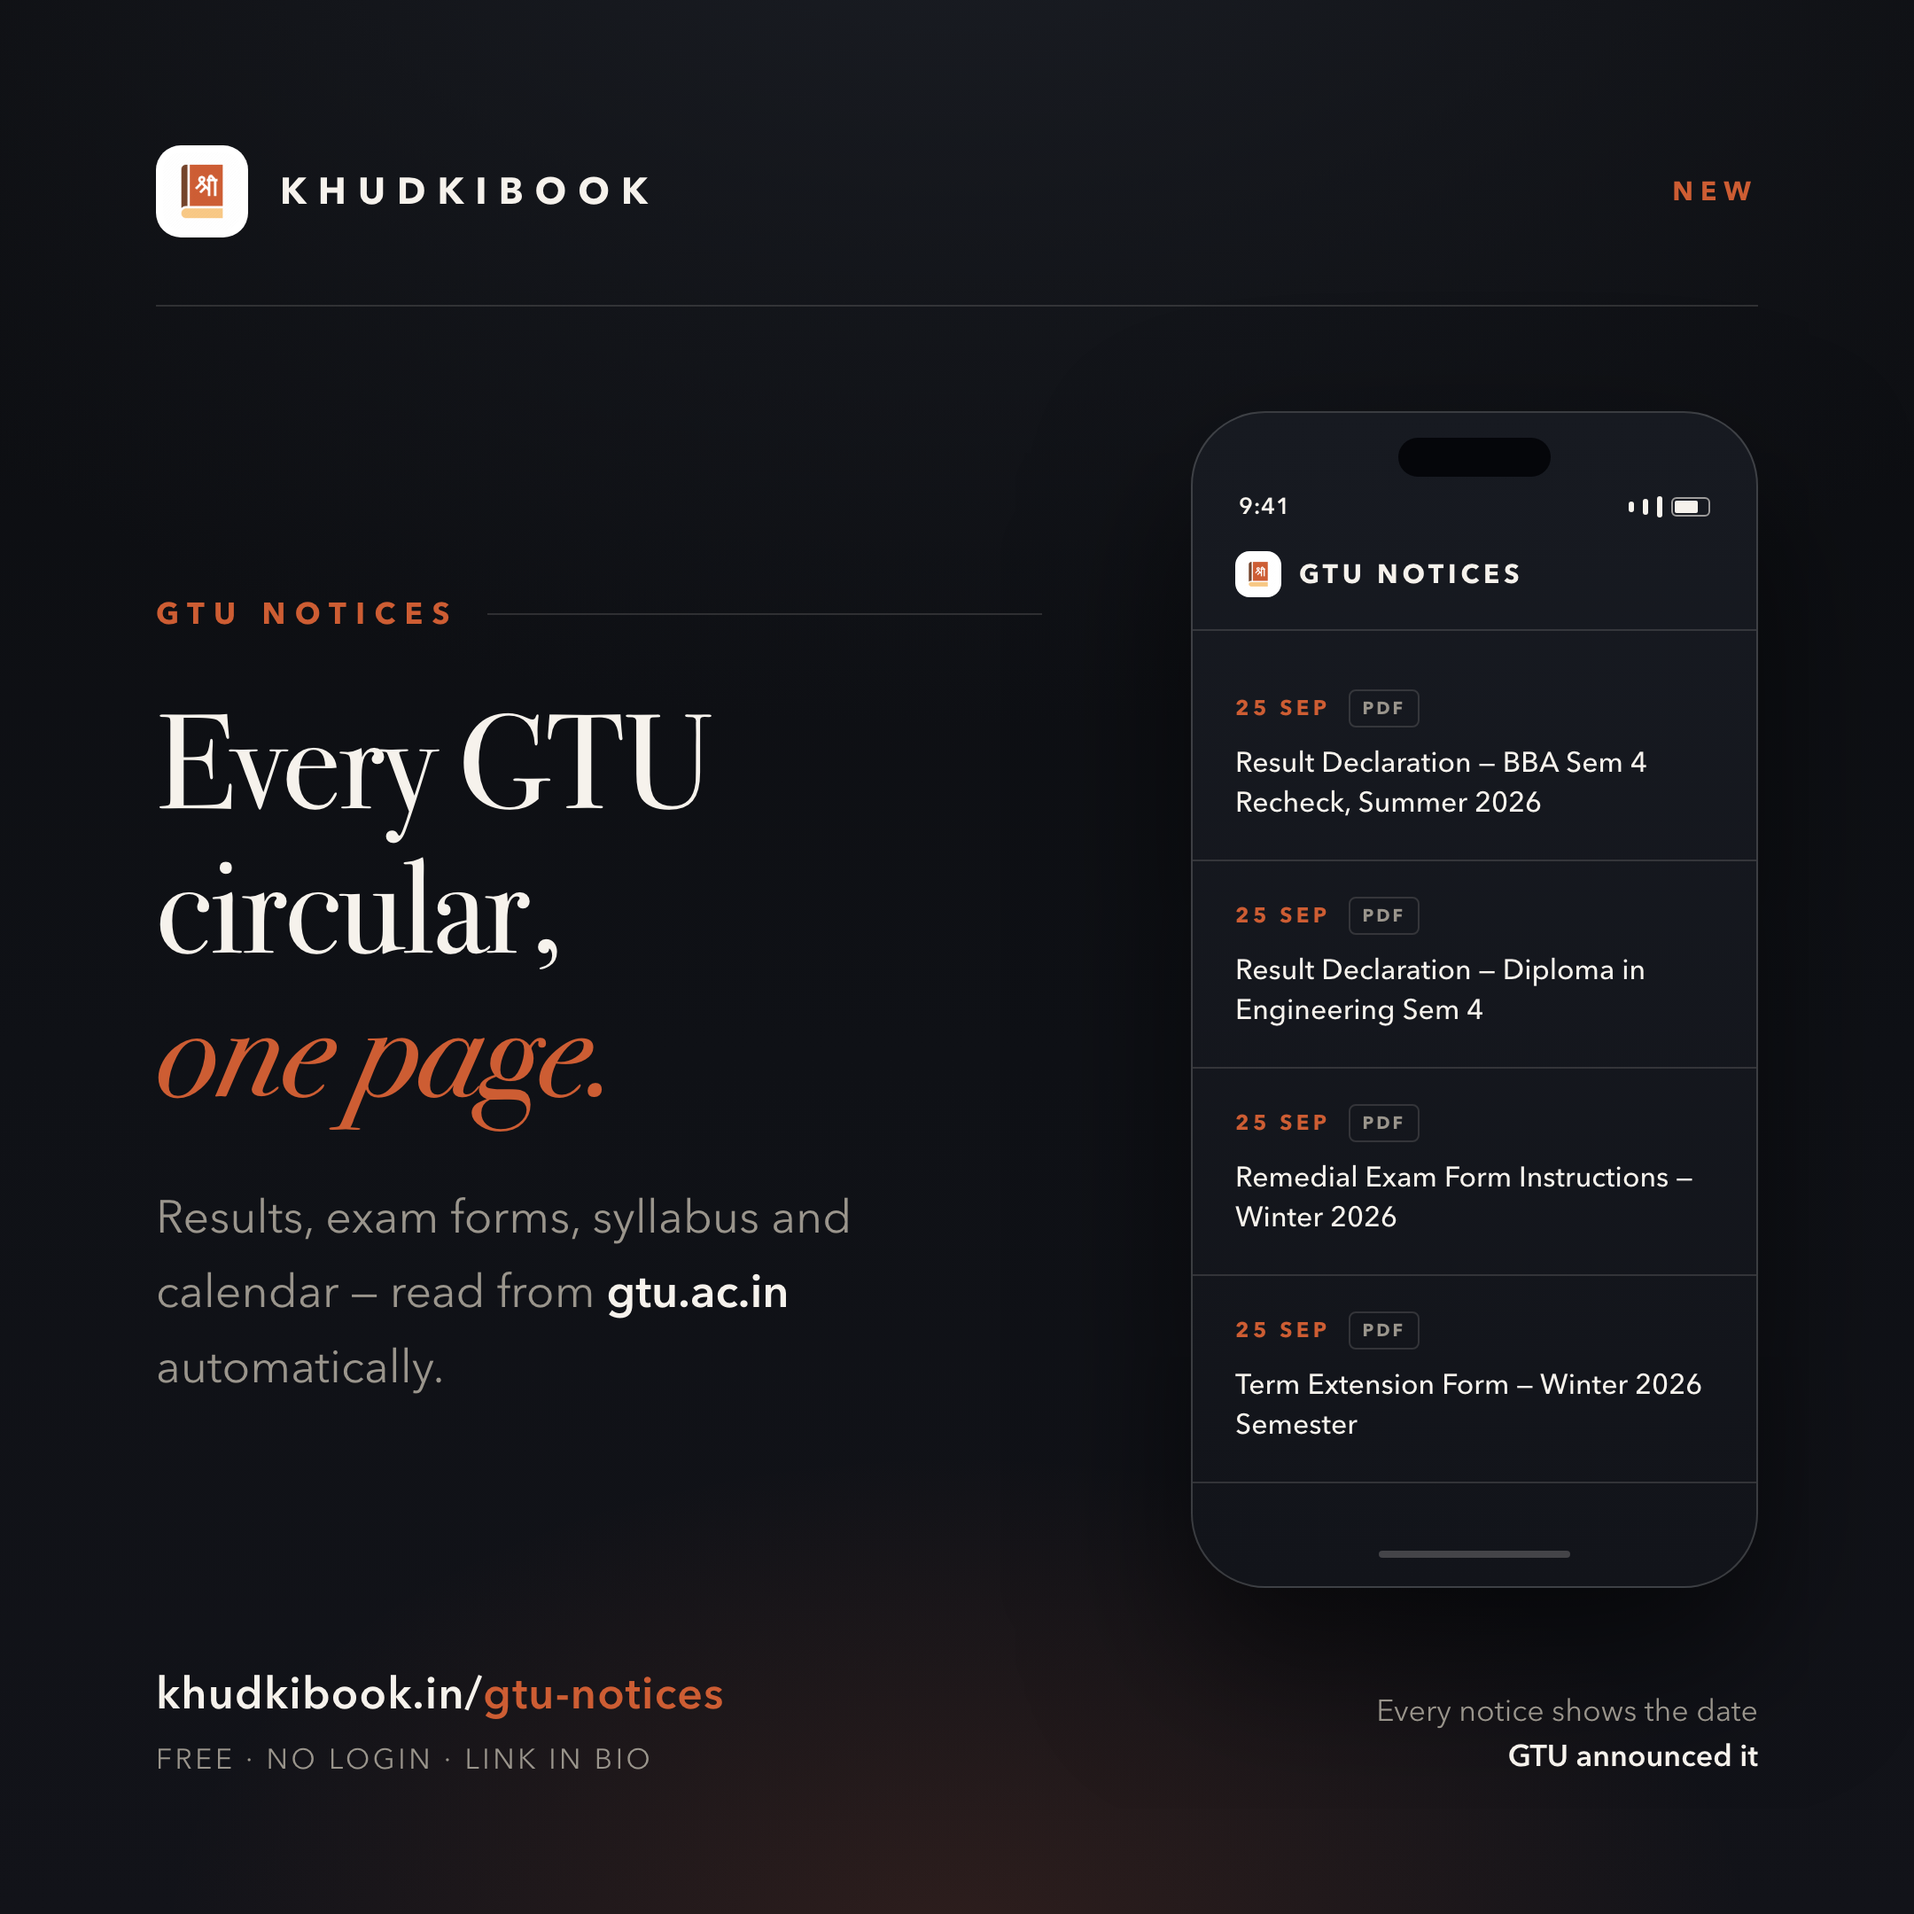
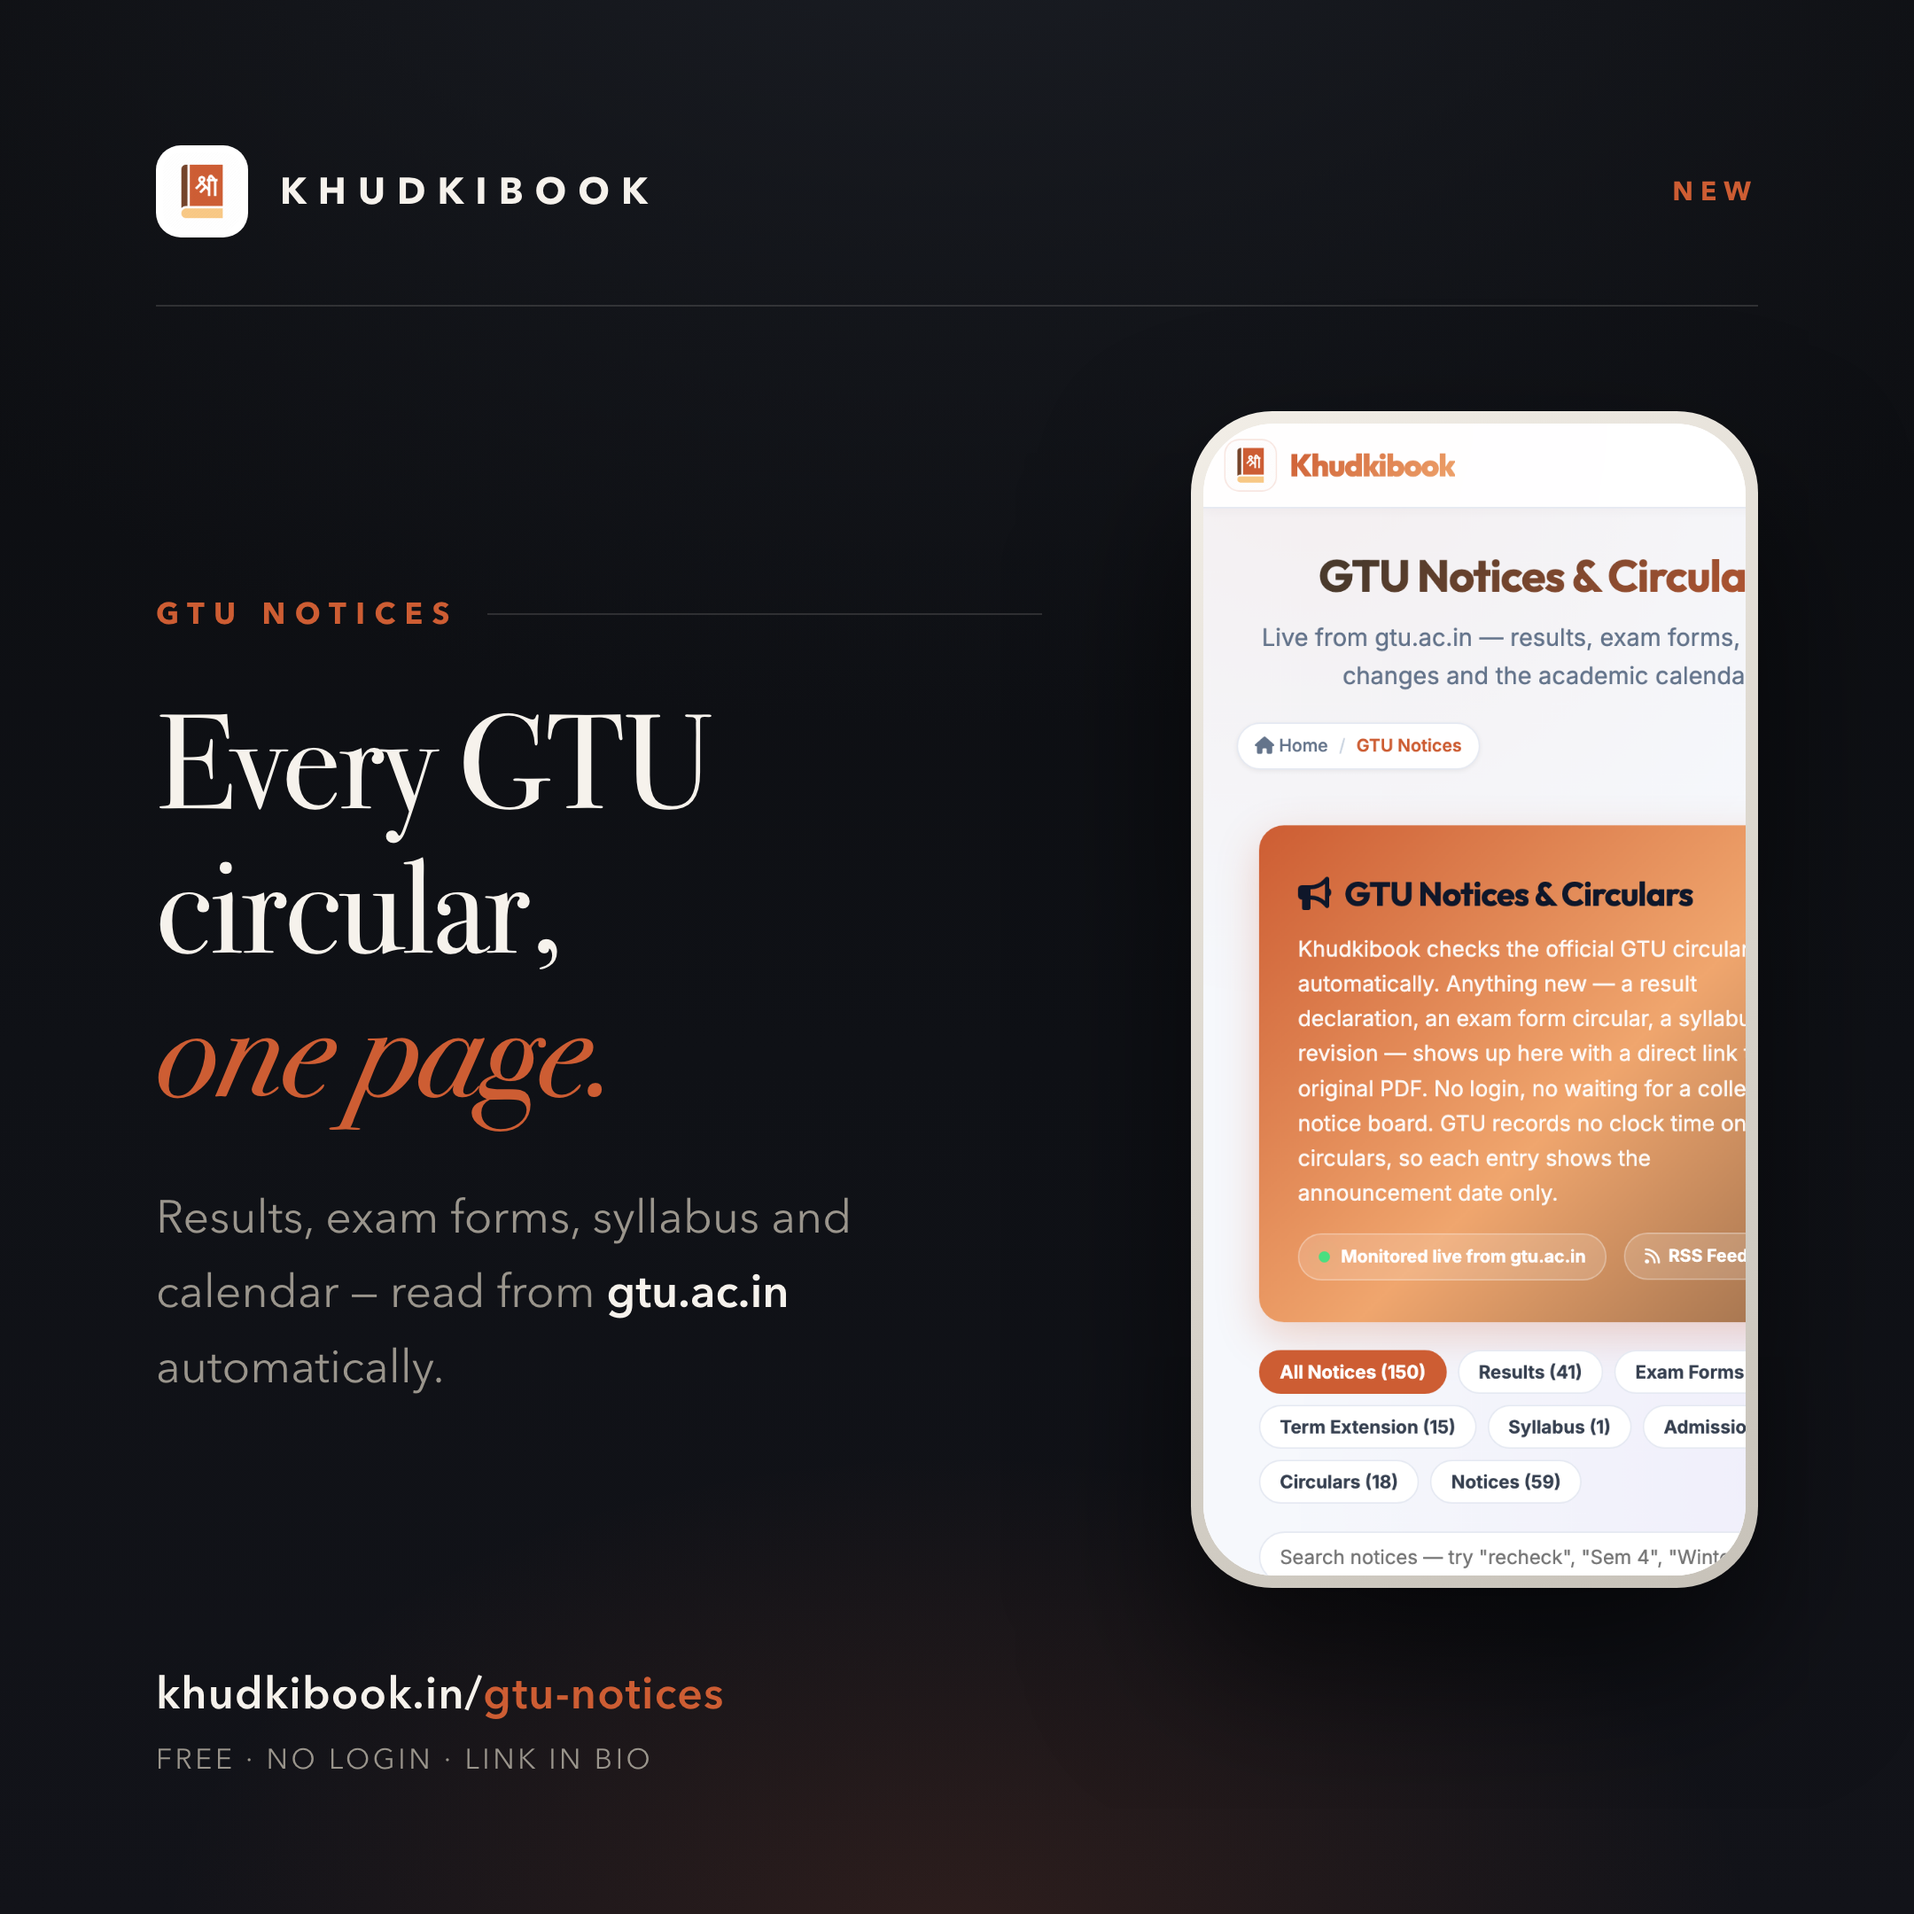
Instagram card: show real gtu-notices page in device, drop technical annotations

Changed region(s): [[0.6204, 0.2171, 0.9306, 0.8375], [0.7755, 0.8995, 0.8995, 0.9306]]

diff --git a/public/instagram-gtu-notices.html b/public/instagram-gtu-notices.html
@@ -72,49 +72,18 @@
   }
   .standfirst strong { color: var(--paper); font-weight: 600; }
 
-  /* ---------- the device ---------- */
+  /* ---------- the device, showing the real page ---------- */
   .device {
     flex: 0 0 320px; width: 320px; height: 664px;
-    position: relative; border-radius: 42px;
-    border: 1px solid rgba(246, 242, 236, 0.18);
-    background: linear-gradient(to bottom, #171A21 0%, #12141A 100%);
-    box-shadow: 0 40px 90px rgba(0,0,0,0.6);
-    overflow: hidden;
+    padding: 7px; border-radius: 46px;
+    background: linear-gradient(150deg, #F2EEE7 0%, #D9D4CB 55%, #C7C2B9 100%);
+    box-shadow: 0 44px 90px rgba(0,0,0,0.62);
   }
-  .island {
-    position: absolute; top: 14px; left: 50%; transform: translateX(-50%);
-    width: 86px; height: 22px; border-radius: 999px; background: #05060A;
+  .screen {
+    width: 100%; height: 100%;
+    border-radius: 40px; overflow: hidden; background: #fff;
   }
-  .statusbar {
-    position: absolute; top: 44px; left: 0; right: 0;
-    display: flex; align-items: center; justify-content: space-between;
-    padding: 0 26px; font-size: 13px; font-weight: 600; color: var(--paper); letter-spacing: 0.4px;
-  }
-  .status-icons { display: flex; align-items: center; gap: 5px; }
-  .sbar { width: 3px; border-radius: 2px; background: var(--paper); }
-  .batt { width: 22px; height: 11px; border: 1px solid rgba(246,242,236,0.6); border-radius: 3px; position: relative; }
-  .batt::after { content: ''; position: absolute; top: 1px; left: 1px; bottom: 1px; width: 13px; background: var(--paper); border-radius: 1px; }
-
-  .appbar {
-    position: absolute; top: 78px; left: 0; right: 0;
-    display: flex; align-items: center; gap: 10px;
-    padding: 0 24px 18px; border-bottom: 1px solid var(--hairline);
-  }
-  .appbar img { width: 26px; height: 26px; border-radius: 8px; background: #fff; padding: 3px; }
-  .appbar span { font-size: 15px; font-weight: 700; letter-spacing: 2.4px; text-transform: uppercase; }
-
-  .feed { position: absolute; top: 136px; left: 0; right: 0; bottom: 0; }
-  .frow { padding: 20px 24px; border-bottom: 1px solid var(--hairline); }
-  .fmeta { display: flex; align-items: center; gap: 10px; margin-bottom: 9px; }
-  .fdate { font-size: 12px; font-weight: 700; letter-spacing: 2.2px; text-transform: uppercase; color: var(--accent); }
-  .fchip { font-size: 10px; font-weight: 700; letter-spacing: 1.4px; color: var(--paper-dim);
-           border: 1px solid var(--hairline); border-radius: 4px; padding: 3px 7px; text-transform: uppercase; }
-  .ftitle { font-size: 16px; font-weight: 500; line-height: 1.42; color: var(--paper); }
-
-  .fbar {
-    position: absolute; left: 50%; bottom: 16px; transform: translateX(-50%);
-    width: 108px; height: 4px; border-radius: 999px; background: rgba(246,242,236,0.22);
-  }
+  .screen img { display: block; width: 100%; height: 100%; object-fit: cover; object-position: top center; }
 
   /* ---------- footer ---------- */
   .footer {
@@ -124,8 +93,6 @@
   .cta { font-size: 25px; font-weight: 600; letter-spacing: 0.6px; }
   .cta span { color: var(--accent); }
   .fine { margin-top: 9px; font-size: 16px; color: var(--paper-dim); letter-spacing: 1.8px; text-transform: uppercase; }
-  .note { font-size: 17px; color: var(--paper-dim); text-align: right; line-height: 1.5; }
-  .note b { color: var(--paper); font-weight: 600; }
 </style>
 </head>
 <body>
@@ -152,39 +119,9 @@
       </div>
 
       <div class="device">
-        <div class="island"></div>
-        <div class="statusbar">
-          <div>9:41</div>
-          <div class="status-icons">
-            <div class="sbar" style="height:6px"></div>
-            <div class="sbar" style="height:9px"></div>
-            <div class="sbar" style="height:12px"></div>
-            <div class="batt"></div>
-          </div>
+        <div class="screen">
+          <img src="/assets/brand/gtu-notices-mobile.png" alt="khudkibook.in/gtu-notices" />
         </div>
-        <div class="appbar">
-          <img src="/assets/brand/khudkibook-logo.png" alt="" />
-          <span>GTU Notices</span>
-        </div>
-        <div class="feed">
-          <div class="frow">
-            <div class="fmeta"><div class="fdate">25 Sep</div><div class="fchip">PDF</div></div>
-            <div class="ftitle">Result Declaration &mdash; BBA Sem 4 Recheck, Summer 2026</div>
-          </div>
-          <div class="frow">
-            <div class="fmeta"><div class="fdate">25 Sep</div><div class="fchip">PDF</div></div>
-            <div class="ftitle">Result Declaration &mdash; Diploma in Engineering Sem 4</div>
-          </div>
-          <div class="frow">
-            <div class="fmeta"><div class="fdate">25 Sep</div><div class="fchip">PDF</div></div>
-            <div class="ftitle">Remedial Exam Form Instructions &mdash; Winter 2026</div>
-          </div>
-          <div class="frow">
-            <div class="fmeta"><div class="fdate">25 Sep</div><div class="fchip">PDF</div></div>
-            <div class="ftitle">Term Extension Form &mdash; Winter 2026 Semester</div>
-          </div>
-        </div>
-        <div class="fbar"></div>
       </div>
     </div>
 
@@ -193,7 +130,6 @@
         <div class="cta">khudkibook.in/<span>gtu-notices</span></div>
         <div class="fine">Free &middot; No login &middot; Link in bio</div>
       </div>
-      <div class="note">Every notice shows the date<br /><b>GTU announced it</b></div>
     </div>
   </div>
 </body>
